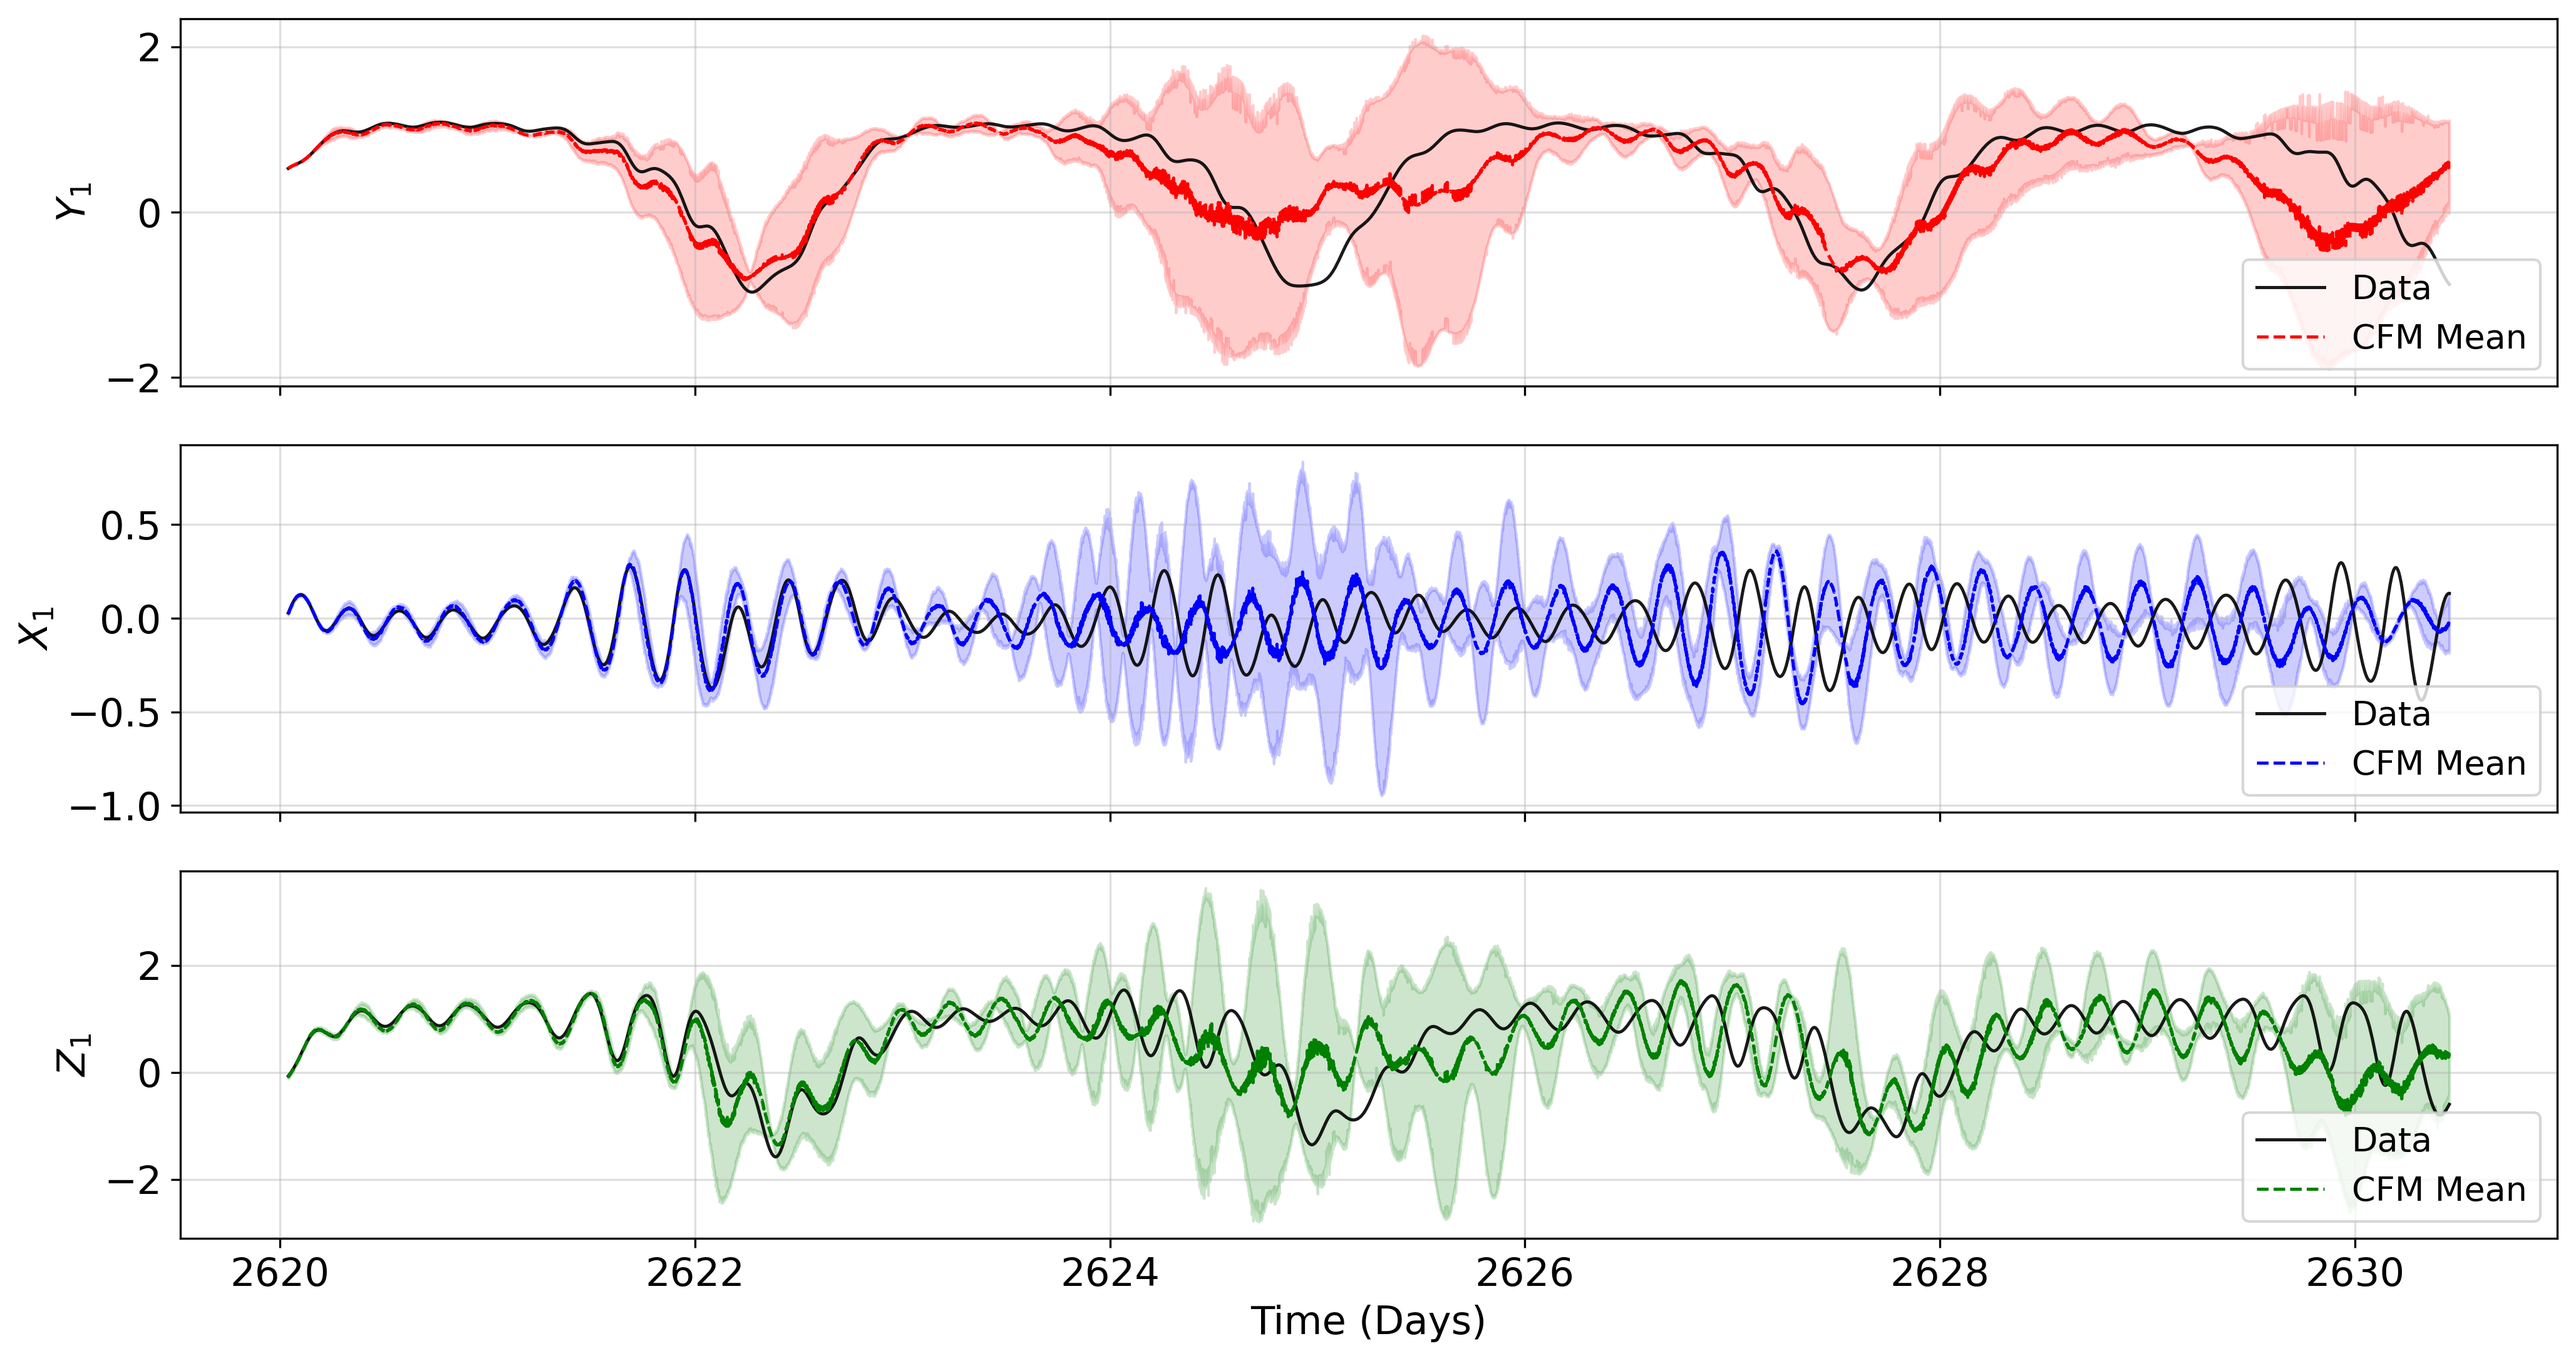
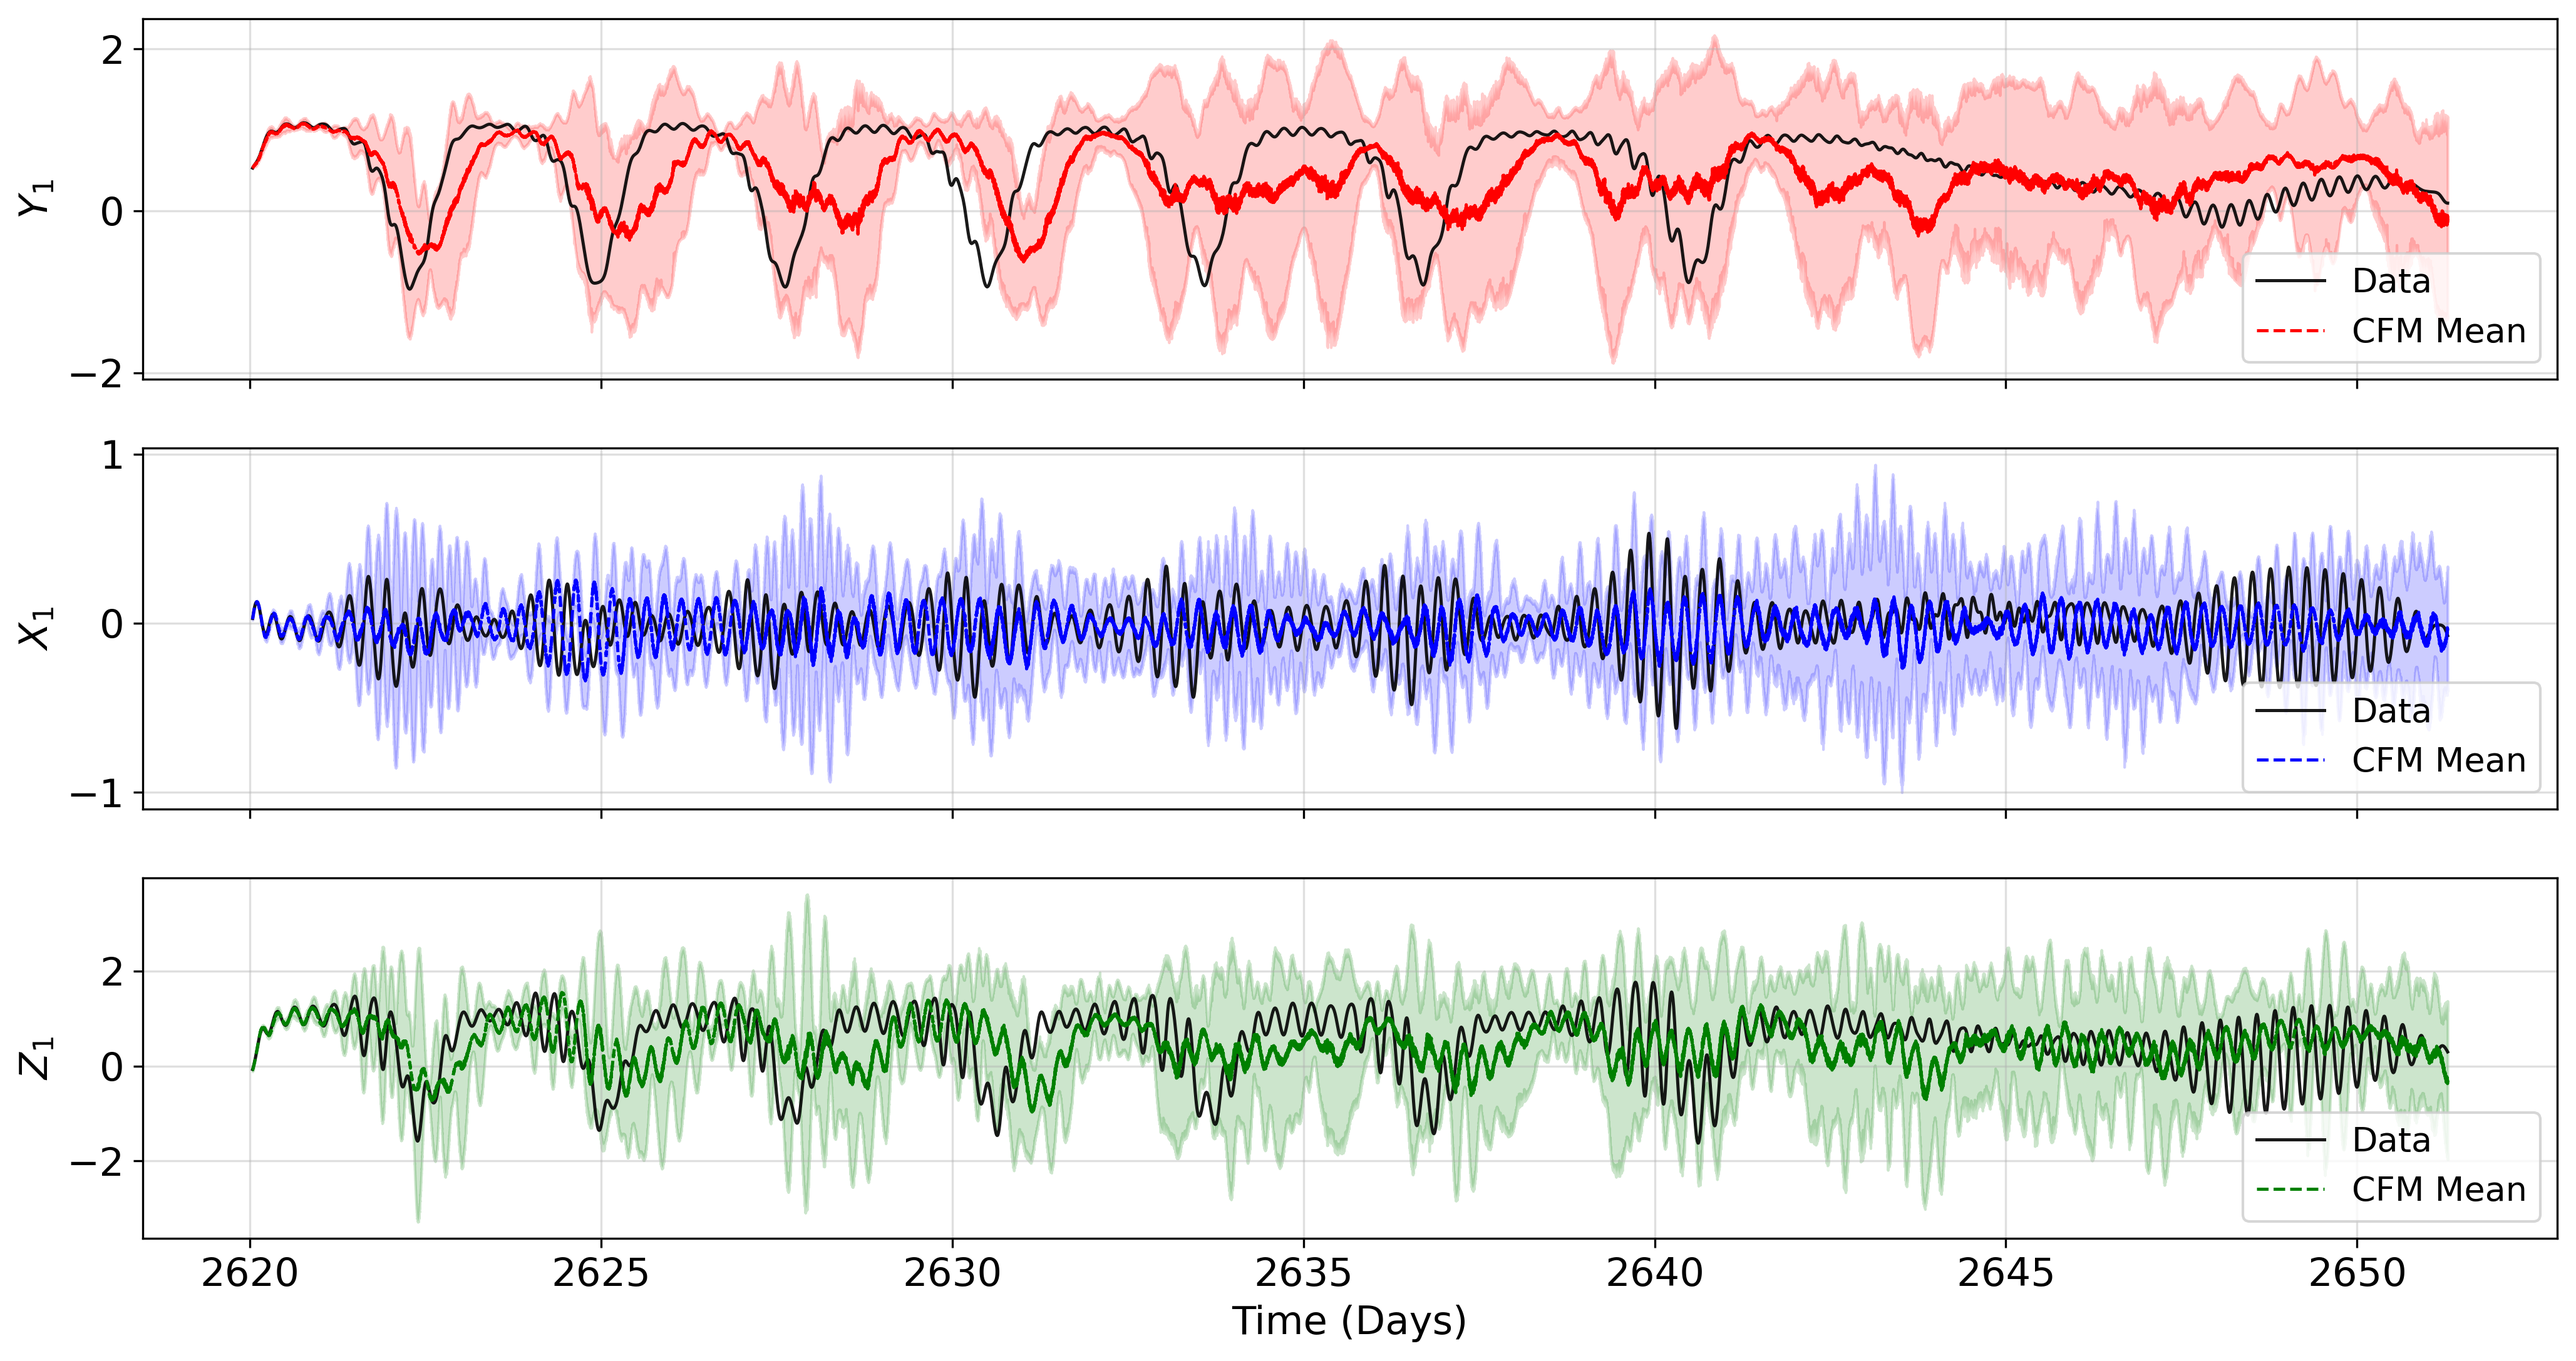
test: ddp + rejection sampling experiment 60000 timesteps

diff --git a/config.py b/config.py
@@ -7,7 +7,7 @@ device = torch.device("cuda" if torch.cuda.is_available() else "cpu")
 # DATALOAD PARAMETERS
 idx_0 = 100000
 N_train = 5000000
-N_test = 20000
+N_test = 60000
 
 # CFM PARAMETERS
 K = 100           # Total memory points
@@ -22,5 +22,5 @@ batch_size = 1024
 
 # A POSTERIORI SIMULATION PARAMETERS
 dt = 4.2e-3 # 4.2e-3 MTU = 45 sec
-N_ens = 16
+N_ens = 32
 sigma0 = 1e-3
